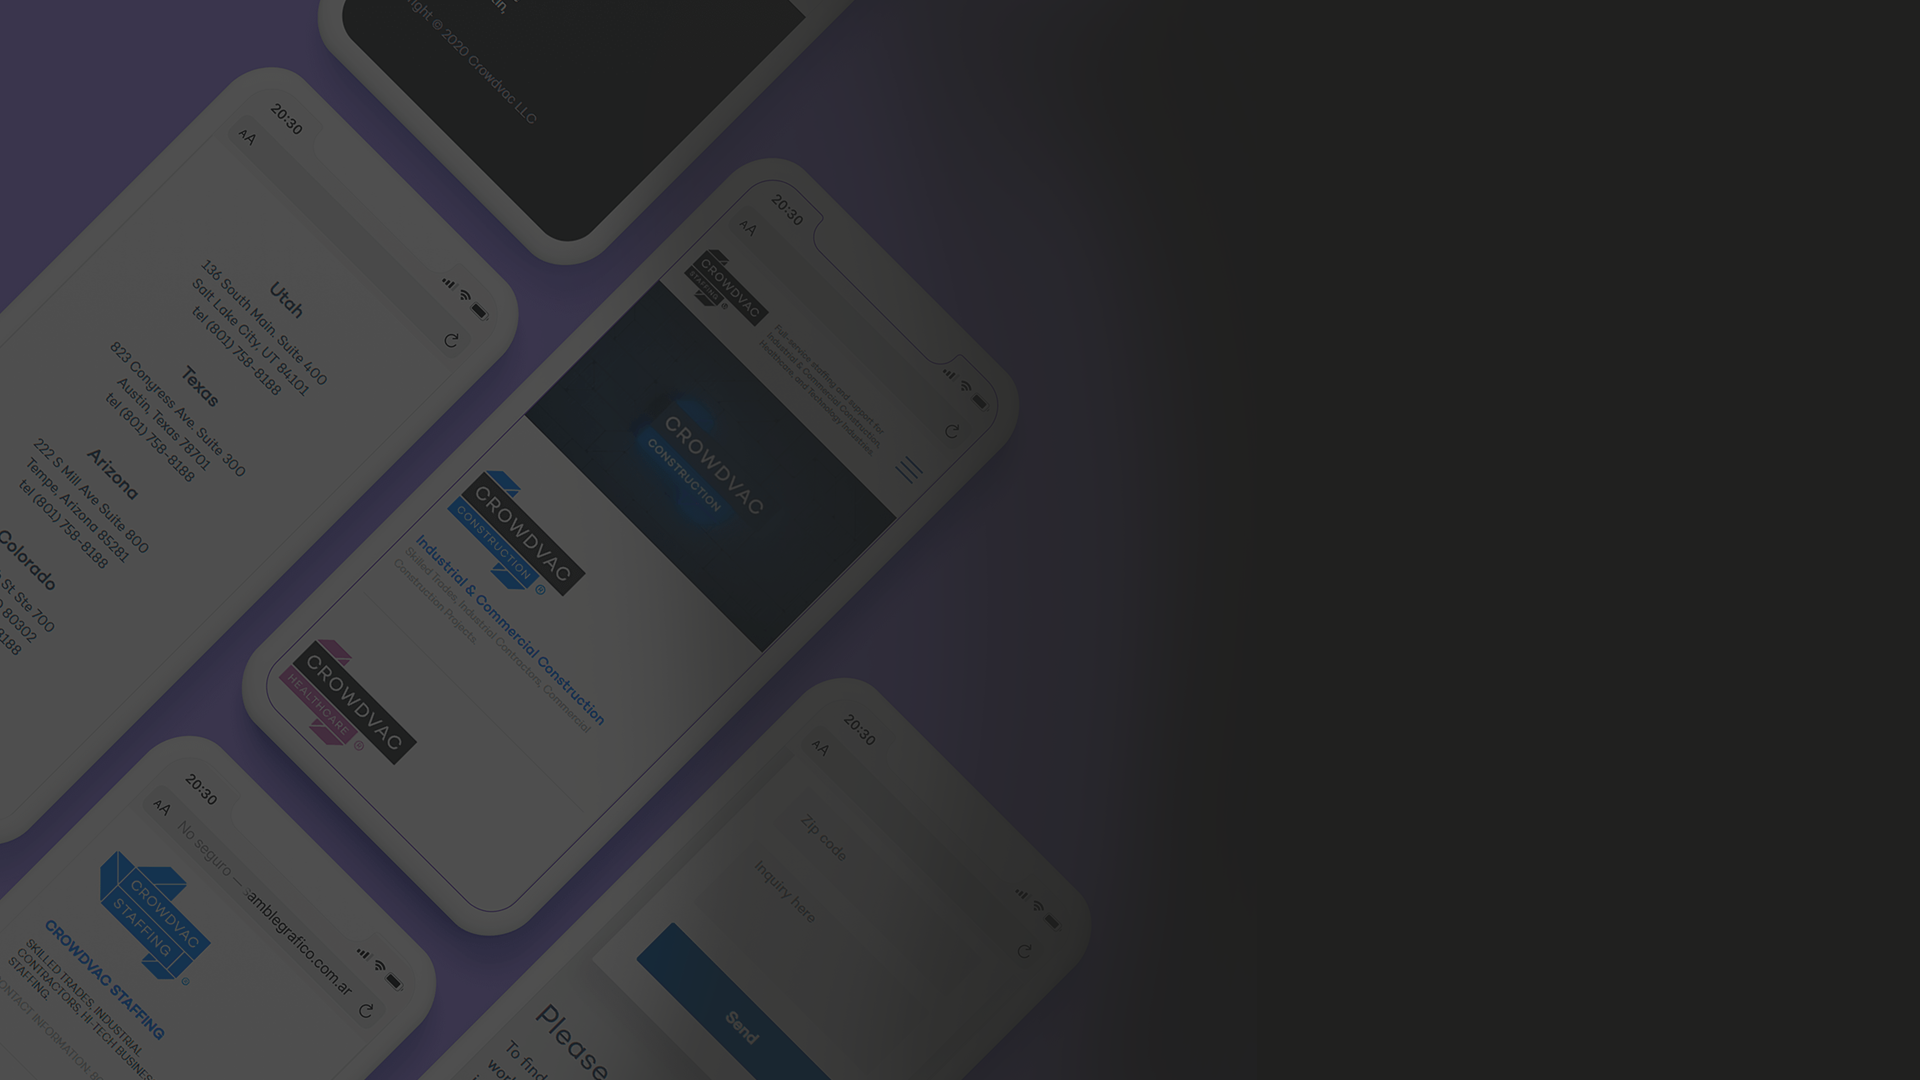
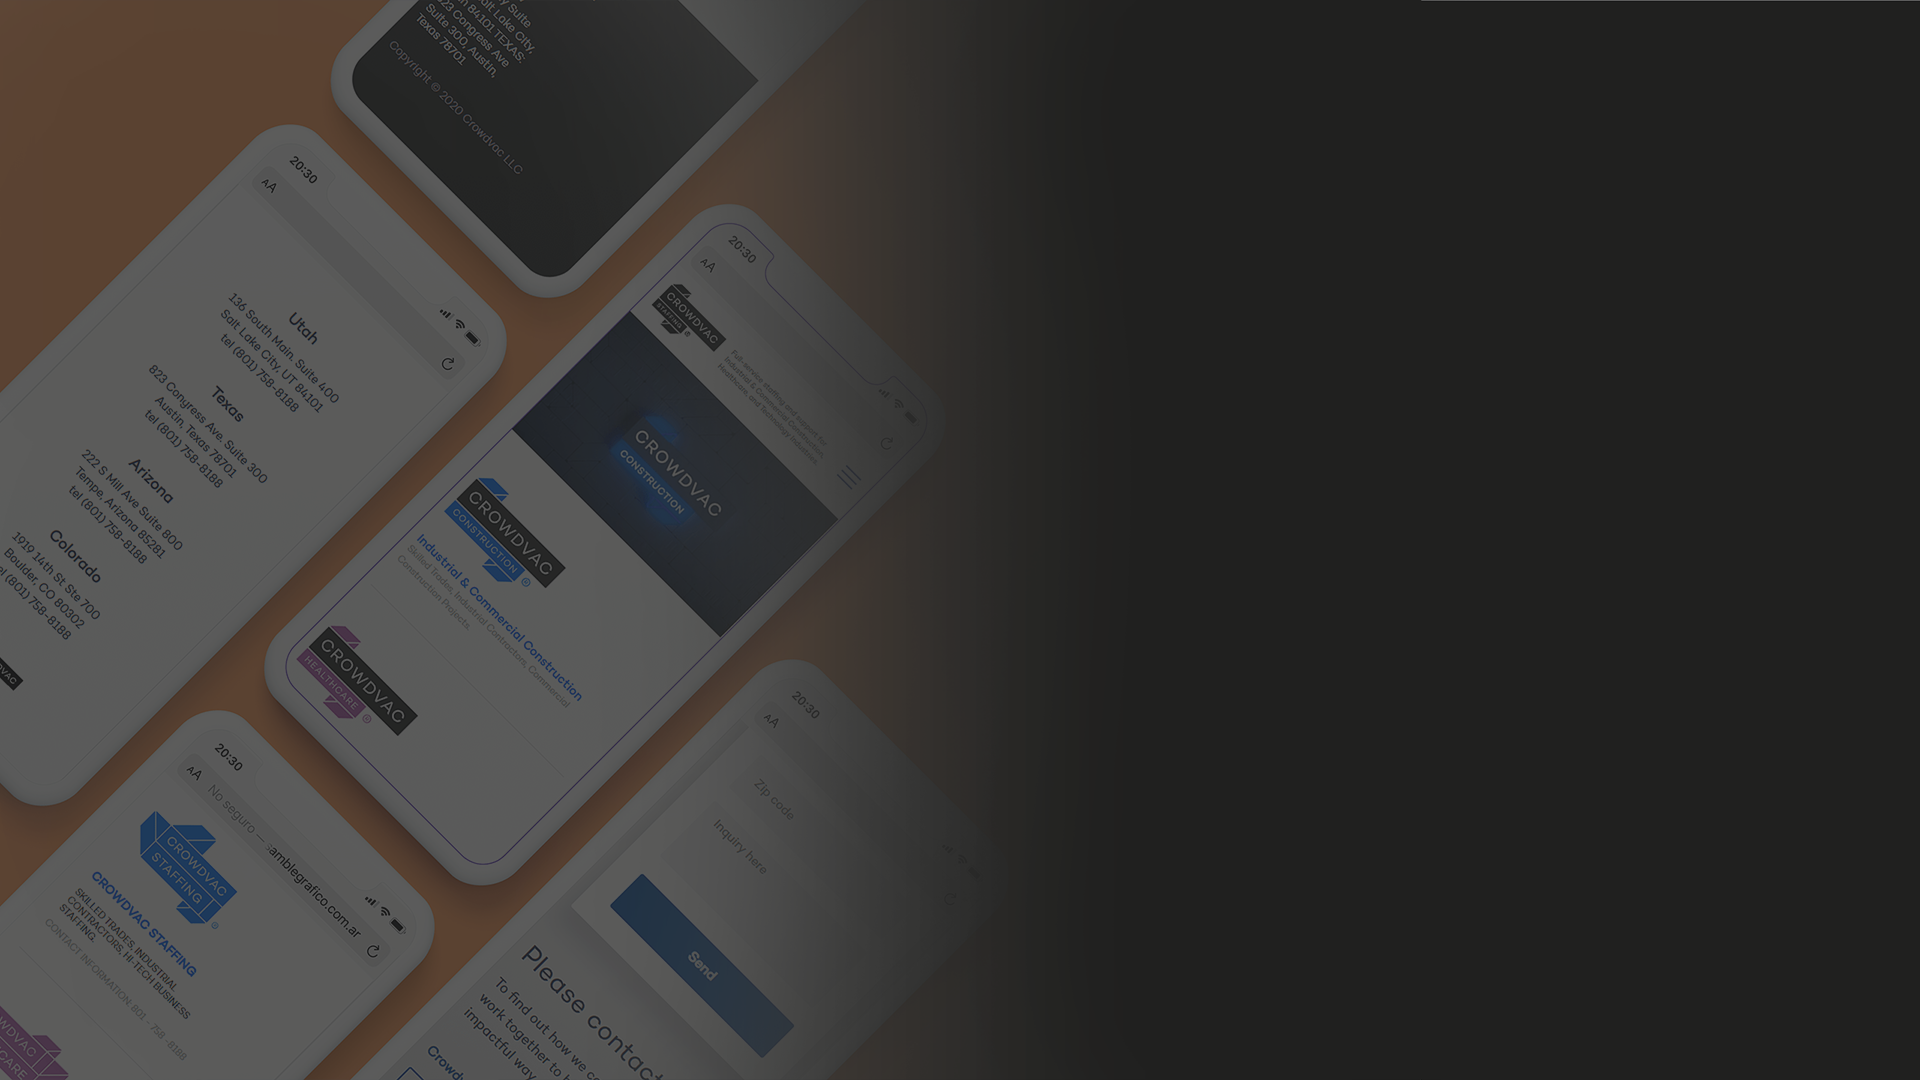
ajustes en galeria v2

Changed region(s): [[0.0, 0.0, 0.4688, 1.0], [0.0, 0.2444, 0.1875, 0.6417], [0.2812, 0.6111, 0.3125, 0.6722]]

diff --git a/src/pages/Portfolio/Portfolio.js b/src/pages/Portfolio/Portfolio.js
@@ -20,7 +20,7 @@ function tweenItem(array) {
 }
 
 const Portfolio = () => {
-  const isMobile = useMediaQuery({
+  /* const isMobile = useMediaQuery({
     query: "(max-width: 660px)",
   });
   let bubles = useRef(null);
@@ -67,10 +67,10 @@ const Portfolio = () => {
       0.2
     );
     tweenItem(bublesArray);
-  }, [tl]);
+  }, [tl]); */
   return (
     <>
-      {!isMobile ? (
+      {/* {!isMobile ? (
         <div ref={(el) => (bubles = el)}>
           <Bubble width={100} x={800} y={250} opacity={0.2}></Bubble>
           <Bubble width={50} x={900} y={150} opacity={0.2}></Bubble>
@@ -119,7 +119,7 @@ const Portfolio = () => {
           </div>
         </div>
       </section>
-
+ */}
       <PortfolioGaleria trabajos={trabajos}></PortfolioGaleria>
     </>
   );

diff --git a/src/utils/common.scss b/src/utils/common.scss
@@ -10,8 +10,13 @@ body {
     color: #3e3d3d;
 }
 
-.portfolioCarrousel .swiper-container {
+.portfolioGaleria .swiper-container{
+    margin: 0;
+    margin-right: 4rem;
+    width: 55%;
+}
 
+.portfolioCarrousel .swiper-container {
     .swiper-button-prev,
     .swiper-button-next {
         display: none;
@@ -80,7 +85,7 @@ button {
     font-weight: 900;
 }
 
-.swiper-container-horizontal>.swiper-pagination-bullets .swiper-pagination-bullet {
+.swiper-pagination-bullets .swiper-pagination-bullet {
     background: white
 }
 

diff --git a/src/components/PortfolioGaleria/PortfolioGaleria.js b/src/components/PortfolioGaleria/PortfolioGaleria.js
@@ -22,7 +22,7 @@ const PortfolioGaleria = ({ trabajos }) => {
     return (
         <>
             <section
-                className={styles.PortfolioGaleria}
+                className={`${styles.PortfolioGaleria} portfolioGaleria`}
                 style={{ backgroundImage: `url(${trabajos[itemId].path}/${trabajos[itemId].thumb})` }}
             >
                 {/*  <img src={hoveredImg} alt={'imagen'} className = {styles.PortfolioGaleriaImg} /> */}

diff --git a/src/components/PortfolioGaleria/PortfolioGaleria.module.scss b/src/components/PortfolioGaleria/PortfolioGaleria.module.scss
@@ -8,14 +8,15 @@
     background-position: center center;
     background-size: cover;
     height: 100vh;
+    padding: 8rem 0;
     @include respond(phone) {
         grid-template-columns: repeat(1, 1fr);
         grid-gap: 0;
         padding: 4em 1.5em 8em 1.5em;
     }
-
+   
     .PortfolioList {
-        padding-right: 10rem;
+        padding-right: 3rem;
         z-index: 1;
         height: 100vh;
         overflow: scroll;

diff --git a/src/components/PortfolioGaleria/PortfolioCard/PortfolioCard.module.scss b/src/components/PortfolioGaleria/PortfolioCard/PortfolioCard.module.scss
@@ -3,12 +3,12 @@
 @import "./../../../utils/media.scss";
 
 .PortfolioCard {
-    opacity: 0.4;
-    transition: opacity 0.5s;
+    opacity: 0.2;
+    transition: opacity 0.2s;
 
     &.isActive{
         opacity: 1;
-    }
+    } 
     /*   img {
         width: 100%;
         height: auto;
